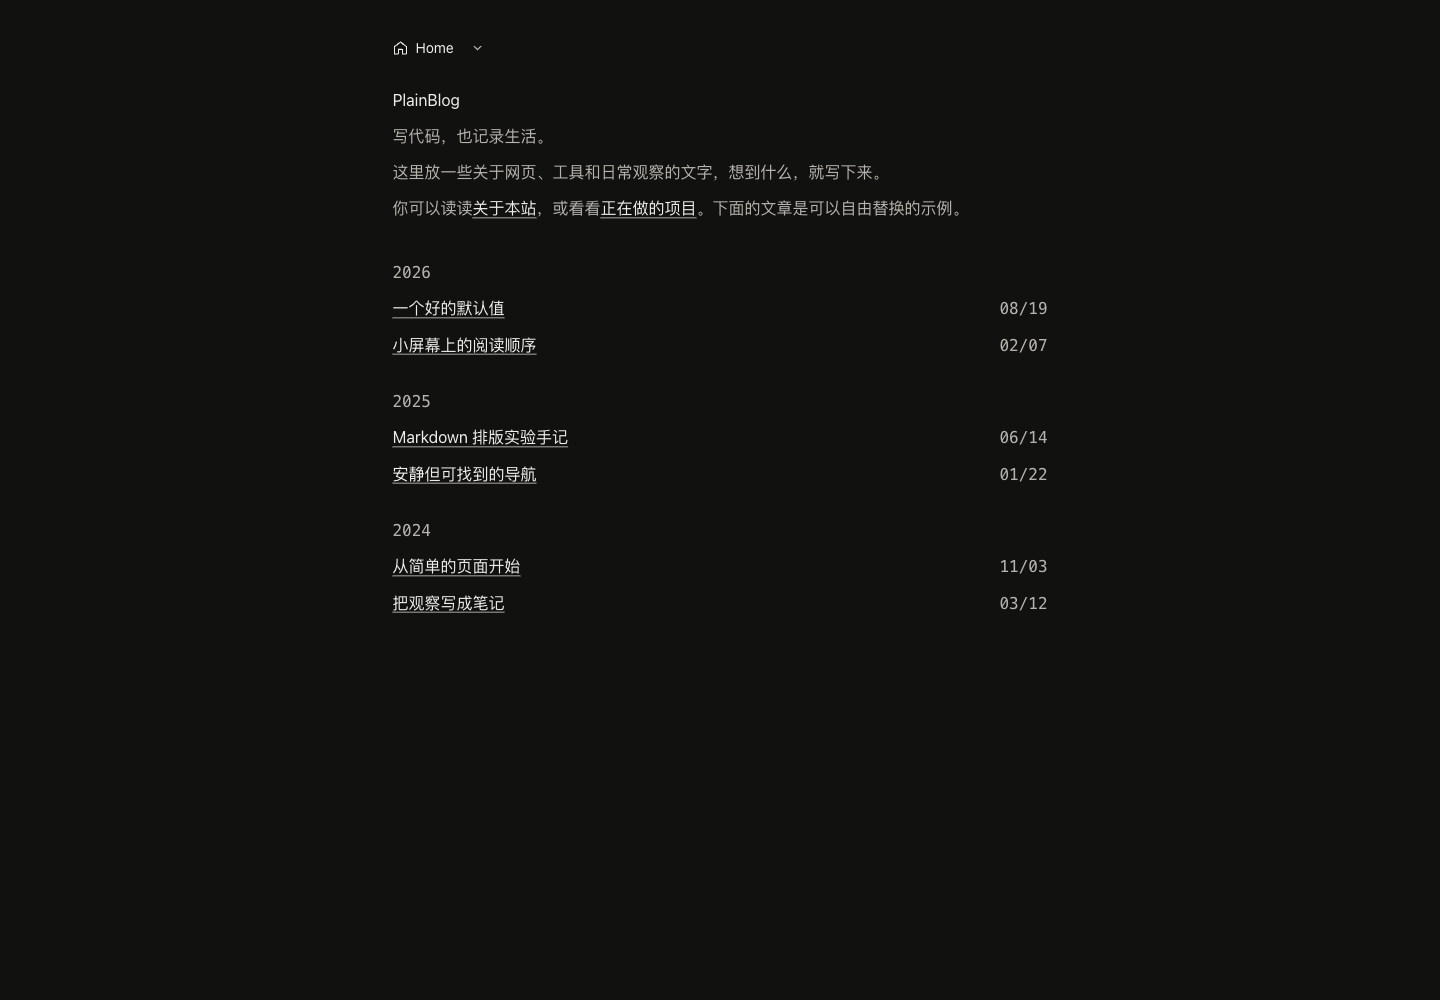
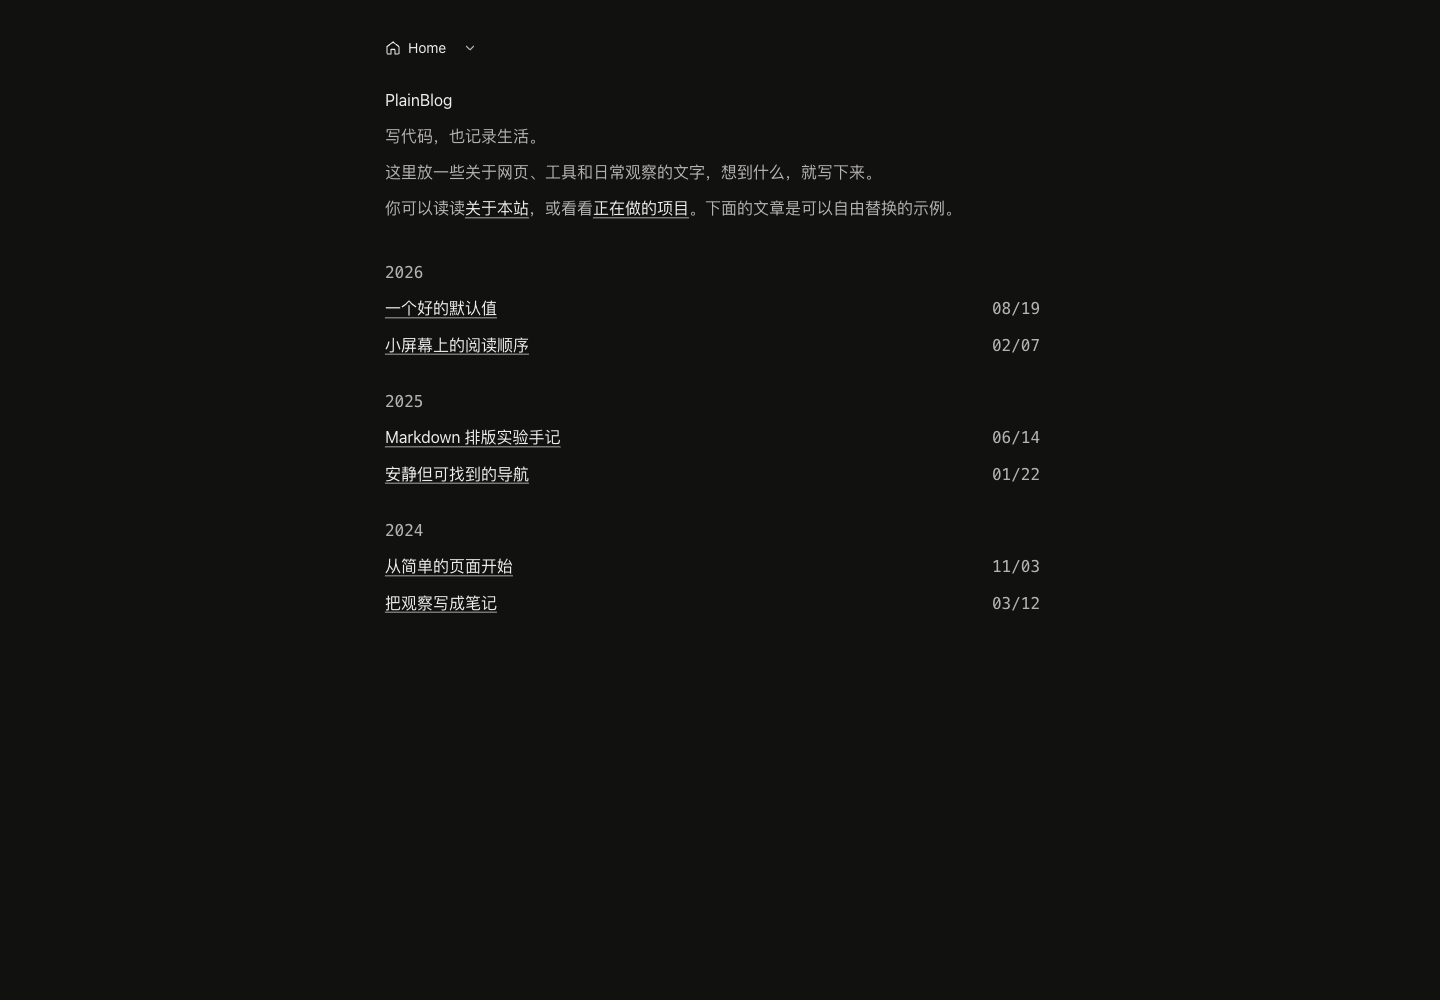
fix: keep Safari menu links active and align article columns

diff --git a/src/styles/global.css b/src/styles/global.css
@@ -1,4 +1,5 @@
 :root {
+  scrollbar-gutter: stable;
   color-scheme: dark;
   font-family: -apple-system, BlinkMacSystemFont, "Segoe UI", sans-serif;
   background: #111110;

diff --git a/docs/VERIFICATION.md b/docs/VERIFICATION.md
@@ -38,7 +38,7 @@
 
 正文16/28，颜色 `rgb(181,179,173)`；代码14/24.5，标题16px与600字重。面包屑没有背景框；只有展开目录有功能性浮层。
 
-生产输出只有366字节内联目录增强脚本，外部 script 数量0。这是当前构建大小的观察值，不是永久性能预算。
+目录脚本仍为少量内联增强代码、无外部 script；前次测得的366字节属于修订前产物，不作为本次大小结论或永久性能预算。
 
 ### 截图
 
@@ -46,6 +46,12 @@
 - [正文 · 桌面](previews/article-desktop.png)
 - [首页 · 手机](previews/home-mobile.png)
 - [正文 · 手机](previews/article-mobile.png)
+
+## Safari 反馈后的复验（桌面）
+
+用户反馈：Ego Lite 点击菜单项正常，Safari 展开后点选不跳转；部分文章看起来横向移位。在 macOS Safari 实际复现：文章页展开站点目录后激活 Projects，原实现只关闭目录，仍留在文章。`focusout` 同步关闭目录可能抢先移除链接；改为只在 Tab 完成焦点移动后判断离开，仍保留外点和 Esc。重新构建并在同一 Safari 窗口激活 Projects 后成功导航。Safari 的远程自动化未开启，未修改用户全局 Safari 设置；这是原生 UI 的回归验收，而非自动化测试。仍未验证 iOS Safari。
+
+Chromium 桌面1440px 下修复前长文章的主列左缘为384.96px，短文章为392.46px：内容均655.08px，差异来自长文章占用15px传统滚动条。设置稳定 scrollbar gutter 后，首页及长短文章主列左缘均为384.96px、宽655.08px。320/390px 下主列仍各为288/358px、左右16px，无整页横向溢出。Chromium 中再次验证目录链接跳转、Esc 关闭、Tab 离开关闭。没有将示例 Markdown 改成较窄的另一套文章样式。
 
 ## 复验方式
 
